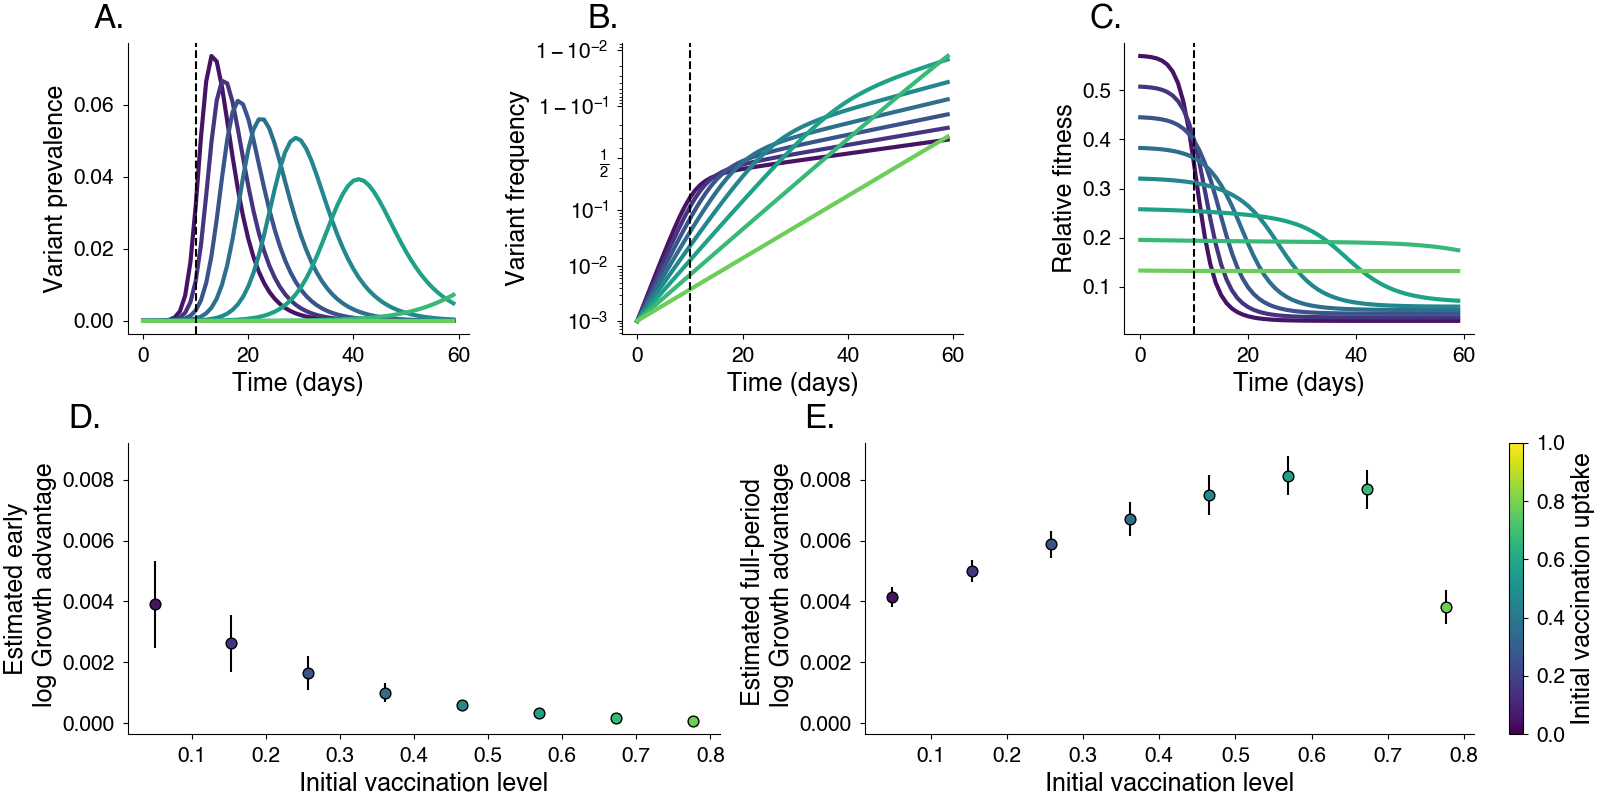
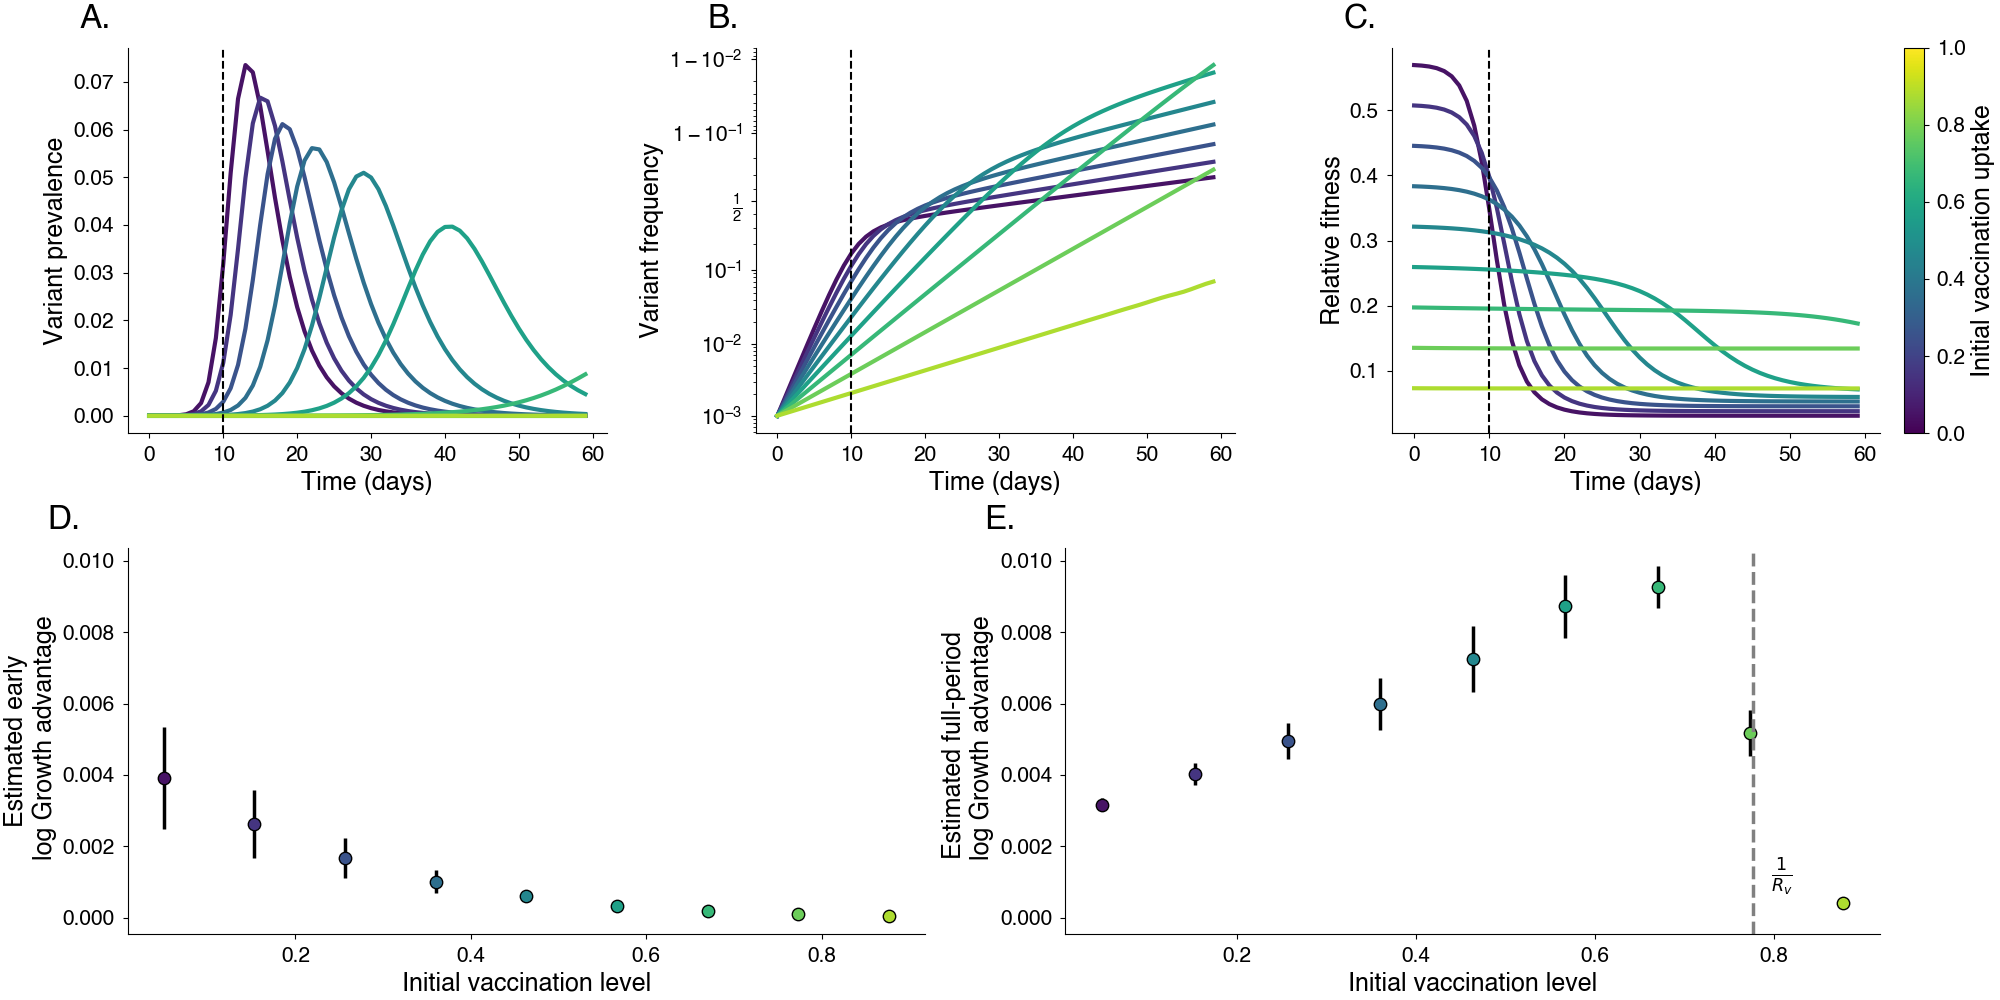
Edits to figure.

diff --git a/manuscript/relative-fitness-mechanisms.tex b/manuscript/relative-fitness-mechanisms.tex
@@ -410,6 +410,9 @@ Main points:
 Variant growth advantages can be correlated with vaccination proportions even in the absence of immune escape.
 Simulated multiple epidemics of a pure increased transmissibility variant at varying levels of initial vaccination and was able to see that estimated growth advantages (using logit-linear model) were correlated with initial vaccination fraction.
 
+We find that you can estimate association of increased relative fitness due to vaccination in the absence of immune escape.
+This appears to hold up until both variants' initial effective reproduction number is below 1 i.e. $V_{0} > 1 / R_{v}$.
+
 \begin{figure}[h]
     \centering
     \includegraphics[width=0.8\linewidth]{./figures/correlation_not_mechanism.png}
@@ -421,7 +424,7 @@ Simulated multiple epidemics of a pure increased transmissibility variant at var
         B. Frequency of variant.
         C. Relative fitness for variant over time.
         D. Estimated log growth advantage using linear regression of log relative frequency of variant over wildtype using only data before the early cutoff.
-        E. Same as D. but using data from the entire period shown.
+        E. Same as D. but using data from the entire period shown. Notice the drop off of relative fitness above $1 / R_{v}$ at which both variants are declining.
     }
 \label{fig:mechanism_identification}
 \end{figure}
